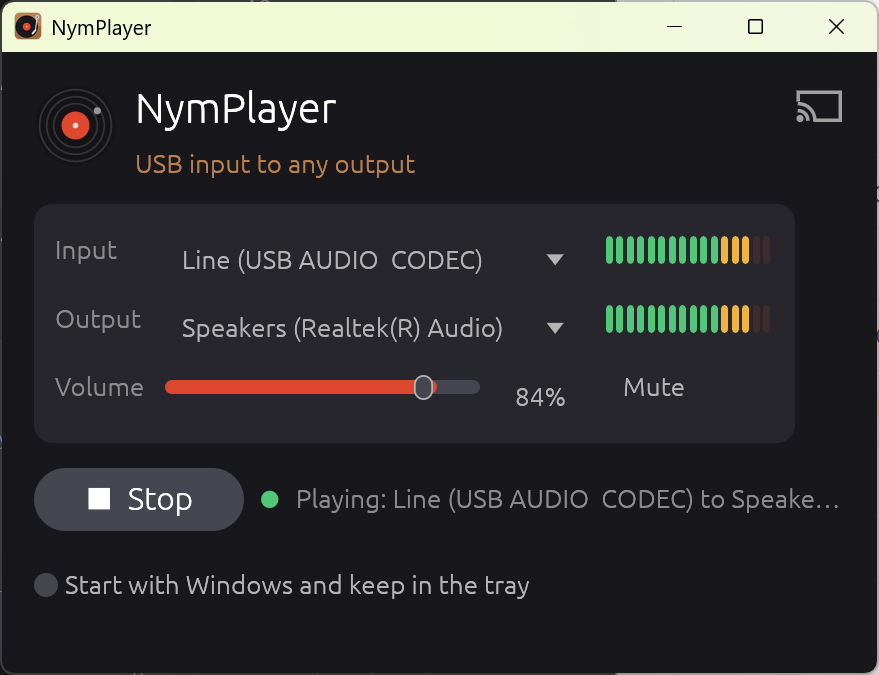
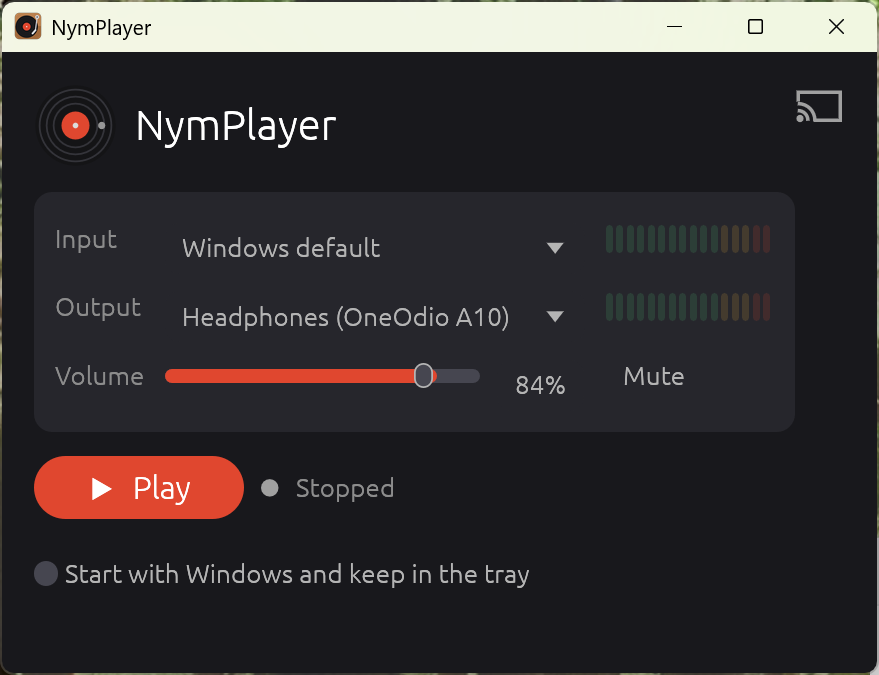
Update readme screenshot

diff --git a/readme.md b/readme.md
@@ -8,7 +8,7 @@ A small Windows app that plays live audio from an input device, such as a USB au
 
 **[⬇ Download the latest version](https://github.com/nymankla/NymPlayer/releases/latest)**: a single `.exe`, no installer.
 
-<img src="assets/screenshot.png" alt="NymPlayer window: cast icon, input and output dropdowns with level meters, volume slider, Stop button and the Start with Windows option" width="440">
+<img src="assets/screenshot.png" alt="NymPlayer window: cast icon, input and output dropdowns with level meters, volume slider, Play button and the Start with Windows option" width="440">
 
 ## Install
 
